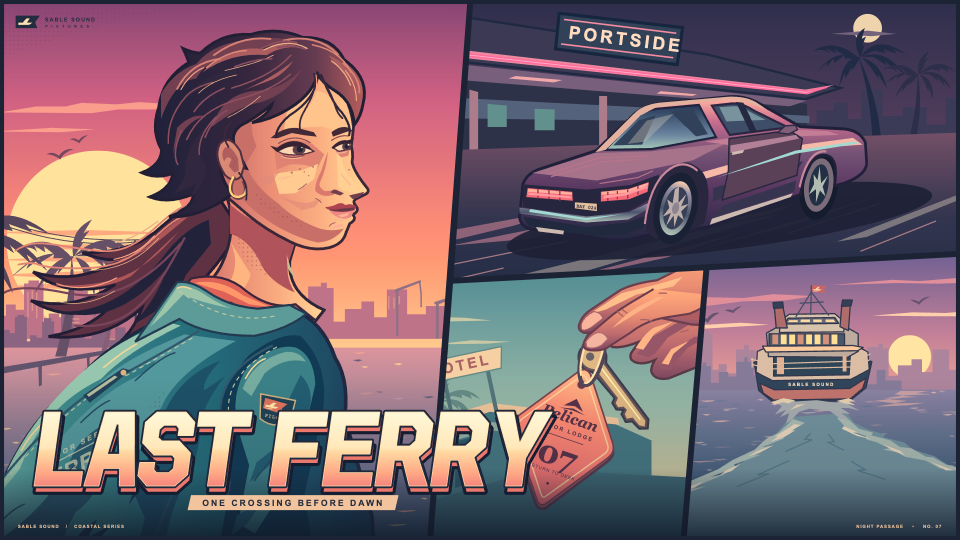
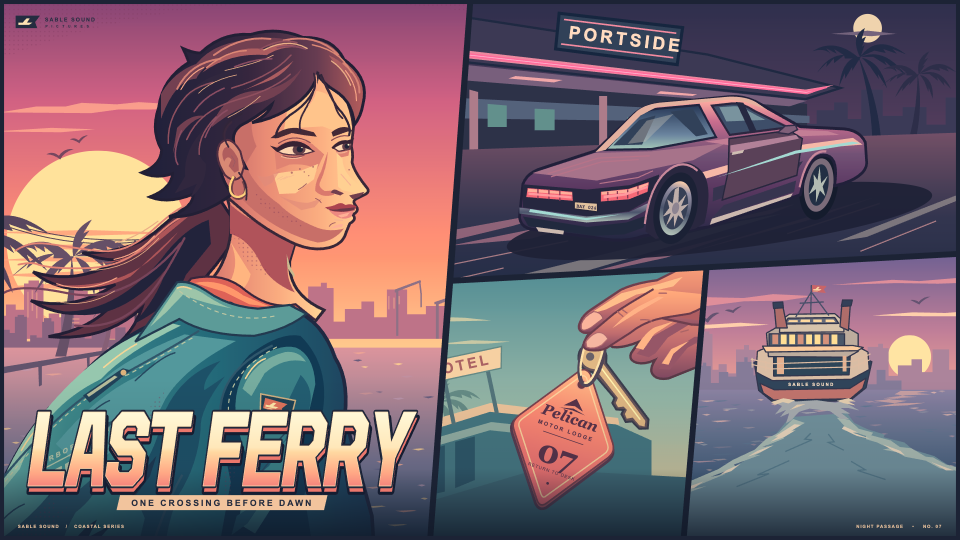
Edit captions beside the export controls and keep the motel key visible

Changed region(s): [[0.0, 0.7407, 0.5938, 0.9481]]

diff --git a/app/studio.js b/app/studio.js
@@ -10,6 +10,7 @@ let project = {
   typeSize:100, placement:'Lower', grade:'Sunset', grain:18, vignette:29, panels:defaultPanels()
 };
 let active=0, previous=[], future=[], raf=0, noticeTimer, guideTimer, dragging=null, serial=0;
+let pendingEdit=null;
 const clamp=(n,l,h)=>Math.min(h,Math.max(l,n));
 const current=()=>project.panels[active];
 const snapshot=()=>JSON.stringify(project);
@@ -28,12 +29,22 @@ function remember(before) {
   future=[];historyControls();
 }
 function historyControls() {
-  byId('undoBtn').disabled=!previous.length;byId('redoBtn').disabled=!future.length;
+  const changed=pendingEdit && pendingEdit.before!==snapshot();
+  byId('undoBtn').disabled=!previous.length&&!changed;byId('redoBtn').disabled=!future.length||Boolean(changed);
+}
+function finishInput() {
+  if(!pendingEdit)return;
+  const {before}=pendingEdit;
+  pendingEdit=null;
+  remember(before);
+  historyControls();
 }
 function edit(change) {
+  finishInput();
   const before=snapshot();change();remember(before);sync();
 }
 function rewind(undo) {
+  finishInput();
   const from=undo?previous:future, to=undo?future:previous;
   if(!from.length)return;
   to.push(snapshot());project=JSON.parse(from.pop());sync();
@@ -80,7 +91,7 @@ function updateLibrary() {
   byId('libraryBox').hidden=![...sources.keys()].some(id=>!sampleIds.includes(id));
 }
 function sync() {
-  for(const [id,value] of Object.entries({caption:project.caption,subtitle:project.subtitle,typeface:project.type,placement:project.placement,typeSize:project.typeSize,grain:project.grain,vignette:project.vignette,zoom:Math.round(current().zoom*100)})){
+  for(const [id,value] of Object.entries({quickCaption:project.caption,caption:project.caption,subtitle:project.subtitle,typeface:project.type,placement:project.placement,typeSize:project.typeSize,grain:project.grain,vignette:project.vignette,zoom:Math.round(current().zoom*100)})){
     if(String(byId(id).value)!==String(value))byId(id).value=value;
   }
   for(const [id,key] of [['grainValue','grain'],['vignetteValue','vignette'],['sizeValue','typeSize']])byId(id).value=project[key]+'%';
@@ -112,14 +123,26 @@ function sync() {
   historyControls();fitProof();redraw();
 }
 function wireValue(id,set) {
-  const el=byId(id);let start=null;
-  el.addEventListener('input',()=>{if(start===null)start=snapshot();set(el.value);sync();});
-  el.addEventListener('change',()=>{if(start===null){edit(()=>set(el.value));return;}remember(start);start=null;});
+  const el=byId(id);
+  el.addEventListener('input',()=>{
+    if(pendingEdit?.id!==id){
+      finishInput();
+      pendingEdit={id,before:snapshot()};
+    }
+    set(el.value);
+    sync();
+  });
+  el.addEventListener('change',()=>{
+    if(pendingEdit?.id===id)finishInput();
+    else edit(()=>set(el.value));
+  });
+  el.addEventListener('blur',()=>{if(pendingEdit?.id===id)finishInput();});
 }
 function bindEditor() {
   document.querySelectorAll('[data-tab]').forEach(b=>b.onclick=()=>setTab(b.dataset.tab));
   document.querySelectorAll('[data-format]').forEach(b=>b.onclick=()=>edit(()=>project.format=b.dataset.format));
-  wireValue('caption',v=>project.caption=v);wireValue('subtitle',v=>project.subtitle=v);
+  for(const id of ['quickCaption','caption'])wireValue(id,v=>project.caption=v);
+  wireValue('subtitle',v=>project.subtitle=v);
   wireValue('zoom',v=>current().zoom=Number(v)/100);
   for(const key of ['grain','vignette','typeSize'])wireValue(key,v=>project[key]=Number(v));
   byId('typeface').onchange=e=>edit(()=>project.type=e.target.value);
@@ -255,11 +278,11 @@ async function restoreProject() {
   }catch{notify('The saved project could not be opened.');}
 }
 document.addEventListener('keydown',e=>{
-  if(byId('shortcuts').open)return;
+  if(byId('shortcuts').open||e.isComposing)return;
   const key=e.key.toLowerCase(),mod=e.ctrlKey||e.metaKey;
   if(mod&&key==='s'){e.preventDefault();saveProject();return;}
   if(mod&&key==='enter'){e.preventDefault();if(!byId('downloadBtn').disabled)downloadPng();return;}
-  if(e.target.matches('input,select,textarea')||e.isComposing)return;
+  if(e.target.matches('input,select,textarea'))return;
   if(mod&&(key==='z'||key==='y')){e.preventDefault();rewind(key==='z'&&!e.shiftKey);return;}
   if(mod||e.altKey)return;
   if(/^[1-4]$/.test(key)){selectPanel(Number(key)-1);setTab('panels');return;}

diff --git a/app/index.html b/app/index.html
@@ -43,16 +43,23 @@
       <i></i>
       <button id="saveBtn" class="quiet" title="Save project on this device"><svg><use href="#save"/></svg><span>Save</span></button>
       <button id="restoreBtn" class="icon" aria-label="Restore saved project" title="Restore saved project"><svg><use href="#folder"/></svg></button>
-      <button id="downloadBtn" class="primary"><svg><use href="#download"/></svg>Download PNG</button>
     </div>
   </header>
   <main class="workspace">
     <section class="proof" aria-label="Live cover preview">
-      <div class="proof-head"><div><p class="eyebrow"><b></b> Live proof</p><h1 id="projectName">Last Ferry</h1></div>
-        <div class="format-group" aria-label="Export format">
-          <button data-format="Square" aria-label="Square 1080 by 1080"><i class="square"></i>1:1</button>
-          <button data-format="Portrait" aria-label="Portrait 1080 by 1350"><i class="portrait"></i>4:5</button>
-          <button data-format="Wide" aria-label="Wide 1920 by 1080"><i class="wide"></i>16:9</button>
+      <div class="proof-head">
+        <h1 class="sr-only" id="projectName">Last Ferry</h1>
+        <div class="proof-caption">
+          <label for="quickCaption" class="eyebrow"><b></b>Edit caption</label>
+          <input id="quickCaption" type="text" maxlength="64" value="Last Ferry" placeholder="Untitled cover">
+        </div>
+        <div class="proof-actions">
+          <div class="format-group" role="group" aria-label="Export format">
+            <button data-format="Square" aria-label="Square 1080 by 1080"><i class="square"></i>1:1</button>
+            <button data-format="Portrait" aria-label="Portrait 1080 by 1350"><i class="portrait"></i>4:5</button>
+            <button data-format="Wide" aria-label="Wide 1920 by 1080"><i class="wide"></i>16:9</button>
+          </div>
+          <button id="downloadBtn" class="primary"><svg><use href="#download"/></svg>Download PNG</button>
         </div>
       </div>
       <div class="mat" id="mat">

diff --git a/app/studio.css b/app/studio.css
@@ -17,3 +17,12 @@ dialog{background:var(--panel);color:var(--text);border:1px solid #576158;border
 @media(prefers-reduced-motion:reduce){*{transition:none!important}}
 .panel-list em{overflow:hidden;white-space:nowrap;text-overflow:ellipsis}.section-heading small{overflow:hidden;text-overflow:ellipsis;max-width:53%}
 #emptyImport{position:absolute;top:50%;left:50%;transform:translate(-50%,-50%);display:grid;justify-items:center;gap:7px;background:#222b28;color:var(--text);border:1px solid var(--accent);border-radius:6px;padding:20px;min-width:185px}#emptyImport svg{color:var(--accent)}#emptyImport span{color:var(--quiet);font-size:11px}
+.sr-only{position:absolute;width:1px;height:1px;padding:0;margin:-1px;overflow:hidden;clip-path:inset(50%);white-space:nowrap;border:0}
+.proof-head{flex-wrap:wrap;align-items:flex-end;column-gap:20px}
+.proof-caption{flex:1 1 180px;min-width:0;max-width:30rem}
+.proof-caption .eyebrow{cursor:text}
+#quickCaption{display:block;width:100%;font-size:clamp(21px,2vw,29px);line-height:1.15;letter-spacing:-.8px;font-weight:600;padding:2px 0 4px;background:transparent;border:0;border-bottom:1px solid #758374;border-radius:0;text-overflow:ellipsis}
+#quickCaption:hover,#quickCaption:focus{border-color:var(--accent)}
+.proof-actions{display:flex;flex-wrap:wrap;align-items:center;gap:8px}
+.proof-actions .primary{margin:0}
+@media(max-width:520px){.proof-caption{flex-basis:100%;max-width:none}.proof-actions{width:100%;justify-content:space-between}}

diff --git a/app/lettering.js b/app/lettering.js
@@ -49,9 +49,10 @@ function printCaption(ctx, width, height, settings) {
   const top = settings.placement === 'Top';
   const mark = settings.type === 'Harbor Block' && harborWordmark(text);
   const wideLower = width > height * 1.5 && !mid && !top;
-  const center = width * (wideLower ? .305 : .5);
+  // Leave the motel tag visible beyond the sloping edge of the landscape pilot panel.
+  const center = width * (wideLower ? .231 : .5);
   const base = height * (top ? .22 : mid ? .53 : wideLower ? .9 : .885);
-  const maxWidth = width * (wideLower ? .54 : .885);
+  const maxWidth = width * (wideLower ? .405 : .885);
   let fontHeight = unit * .137 * settings.typeSize / 100;
   ctx.save();
   ctx.font = settings.type === 'Screen Serif' ? 'italic 900 100px Georgia,serif' : '900 100px Arial Black,Arial,sans-serif';
